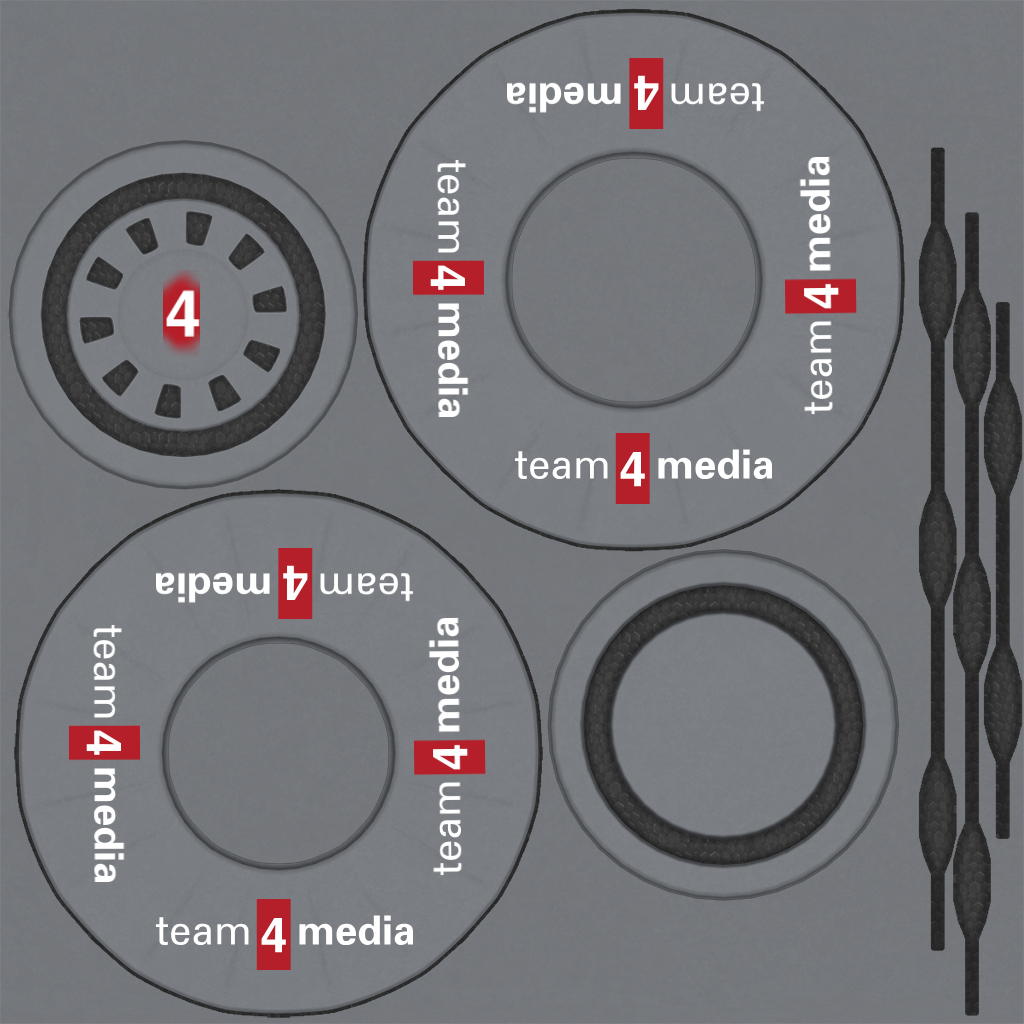
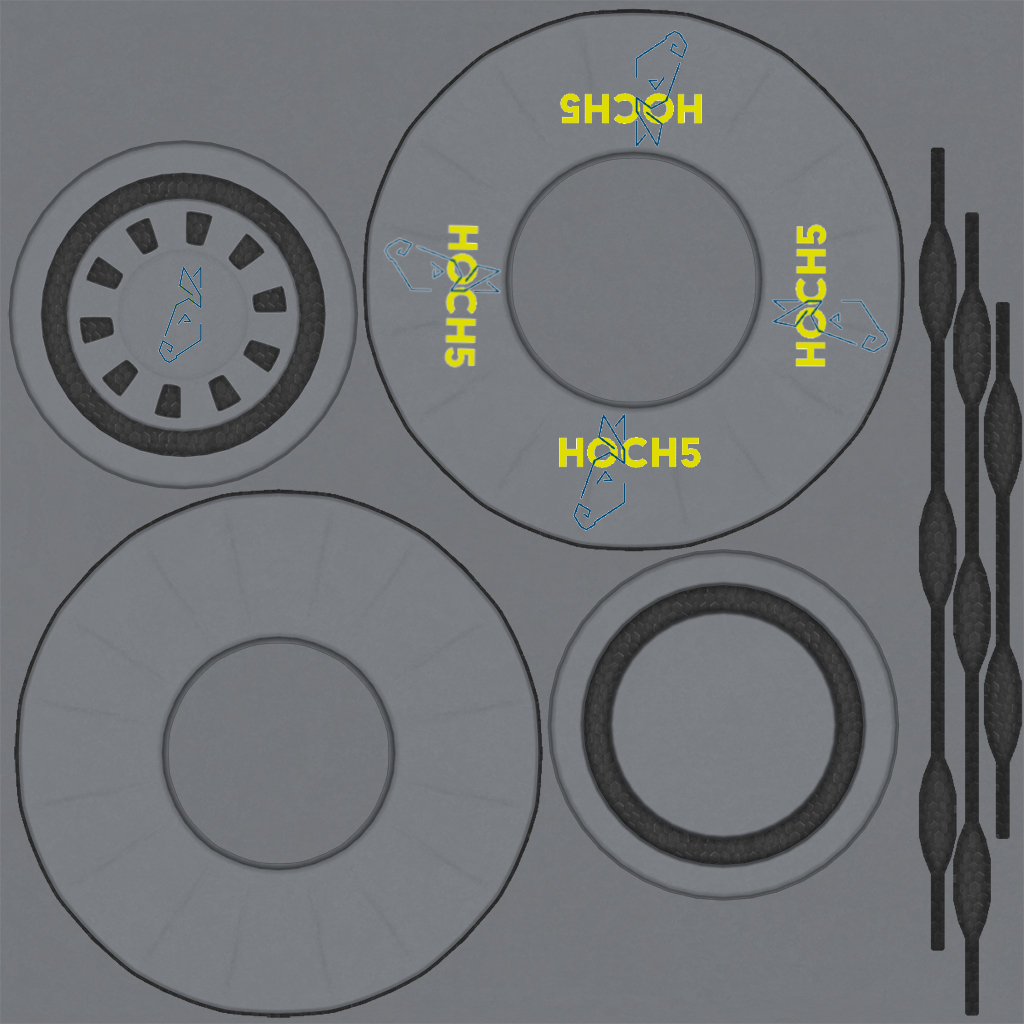
ver3

diff --git a/main.js b/main.js
@@ -18,7 +18,7 @@ loadingManager.onLoad = () => {
         loader.style.display = 'none';
     }
     setTimeout(() => {
-        showModal("<h2>Bitte kommen team<span style='color: #fff; background-color: #ff0000'>4</span><b>media</b>!</h2> <p>Wir haben eine Person für euch gefunden die gutes Potenzial hat im Unternhemen mit einzusteigen. Nur sind uns einige Informationen verloren gegangen. </p> <p><b>Mission:</b> Sammle Informationen über Maximilian.</p><p>Steuere das UFO mit den <b>Pfeiltasten</b>.</p>");
+        showModal("<h2>Bitte kommen <span style='color: #b3ce54ff;'>HOCH5</span>!</h2> <p>Wir haben eine Person für euch gefunden die gutes Potenzial hat im Unternhemen mit einzusteigen. Nur sind uns einige Informationen verloren gegangen. </p> <p><b>Mission:</b> Sammle Informationen über Maximilian.</p><p>Steuere das UFO mit den <b>Pfeiltasten</b>.</p>");
     }, 500);
 };
 const textureLoader = new THREE.TextureLoader(loadingManager);
@@ -314,6 +314,34 @@ function animatePreview() {
     }
     previewRenderer.render(previewScene, previewCamera);
 }
+
+const ufoPreviewContainer = document.getElementById("ufo-preview");
+const ufoPreviewScene = new THREE.Scene();
+const ufoPreviewCamera = new THREE.PerspectiveCamera(50, 800 / 400, 0.1, 100);
+ufoPreviewCamera.position.set(0, 1, 4);
+ufoPreviewCamera.lookAt(0, 0, 0);
+const ufoPreviewRenderer = new THREE.WebGLRenderer({ alpha: true, antialias: true });
+ufoPreviewRenderer.setSize(800, 400);
+if (ufoPreviewContainer) {
+    ufoPreviewContainer.appendChild(ufoPreviewRenderer.domElement);
+}
+const ufoPreviewAmbient = new THREE.AmbientLight(0xffffff, 0.8);
+ufoPreviewScene.add(ufoPreviewAmbient);
+const ufoPreviewDirLight = new THREE.DirectionalLight(0xffffff, 1.0);
+ufoPreviewDirLight.position.set(2, 5, 2);
+ufoPreviewScene.add(ufoPreviewDirLight);
+let ufoPreviewAnimationId = null;
+let ufoPreviewObject = null;
+
+function animateUfoPreview() {
+    ufoPreviewAnimationId = requestAnimationFrame(animateUfoPreview);
+    if (ufoPreviewObject) {
+        ufoPreviewObject.rotation.y -= 0.005;
+        const time = Date.now() * 0.002;
+        ufoPreviewObject.position.y = Math.sin(time) * 0.1 + 0.4;
+    }
+    ufoPreviewRenderer.render(ufoPreviewScene, ufoPreviewCamera);
+}
 function showModal(text, cubeObject = null) {
     if (isModalOpen) return;
     isModalOpen = true;
@@ -328,6 +356,19 @@ function showModal(text, cubeObject = null) {
             profileCard.style.display = 'flex';
         }
     }
+
+    if (ufoPreviewAnimationId) {
+        cancelAnimationFrame(ufoPreviewAnimationId);
+        ufoPreviewAnimationId = null;
+    }
+    if (ufoPreviewContainer) {
+        ufoPreviewContainer.style.display = 'none';
+        if (ufoPreviewObject) {
+            ufoPreviewScene.remove(ufoPreviewObject);
+            ufoPreviewObject = null;
+        }
+    }
+
     if (cubeObject) {
         modalPreviewContainer.style.display = 'block';
         if (previewObject) {
@@ -343,6 +384,19 @@ function showModal(text, cubeObject = null) {
         animatePreview();
     } else {
         modalPreviewContainer.style.display = 'none';
+
+        if (ufoPreviewContainer && typeof cube !== 'undefined' && cube) {
+            ufoPreviewContainer.style.display = 'block';
+            ufoPreviewObject = new THREE.Group();
+            const clonedUfo = cube.clone();
+            clonedUfo.position.set(0, 0, 0);
+            clonedUfo.rotation.copy(cube.rotation);
+            ufoPreviewObject.rotation.x = Math.PI / 10;
+            ufoPreviewObject.scale.set(1.5, 1.5, 1.5);
+            ufoPreviewObject.add(clonedUfo);
+            ufoPreviewScene.add(ufoPreviewObject);
+            animateUfoPreview();
+        }
     }
     const existingBtn = document.getElementById("action-btn");
     if (existingBtn) existingBtn.remove();
@@ -379,6 +433,14 @@ function closeModal() {
     if (previewObject) {
         previewScene.remove(previewObject);
         previewObject = null;
+    }
+    if (ufoPreviewAnimationId) {
+        cancelAnimationFrame(ufoPreviewAnimationId);
+        ufoPreviewAnimationId = null;
+    }
+    if (ufoPreviewObject) {
+        ufoPreviewScene.remove(ufoPreviewObject);
+        ufoPreviewObject = null;
     }
 
     // Wenn es sich um das Start-Modal handelt (kein currentCubeToCollect), triggern wir die Animation

diff --git a/index.html b/index.html
@@ -5,7 +5,7 @@
   <meta charset="UTF-8" />
   <link rel="icon" type="image/svg+xml" href="/vite.svg" />
   <meta name="viewport" content="width=device-width, initial-scale=1.0" />
-  <title>Bewerbung Team4Media</title>
+  <title>Bewerbung Hoch5</title>
   <link rel="stylesheet" href="./style.css">
   <link rel="stylesheet"
     href="https://fonts.googleapis.com/css2?family=Material+Symbols+Outlined:opsz,wght,FILL,GRAD@24,400,0,0" />
@@ -18,6 +18,10 @@
     }
   </script>
   <style>
+    #ufo-preview canvas {
+      box-shadow: none !important;
+    }
+
     /* Loader Styles */
     #loader {
       position: fixed;
@@ -87,6 +91,7 @@
         <p id="modal-text">Text hier.</p>
       </div>
     </div>
+    <div id="ufo-preview" style="width: 800px; height: 400px; margin: 20px auto 0 auto; display: none;"></div>
   </div>
   <div id="final-modal"
     style="display: none; position: fixed; top: 0; left: 0; width: 100%; height: 100%; background: rgba(0,0,0,0.9); z-index: 2000; justify-content: center; align-items: center;">
